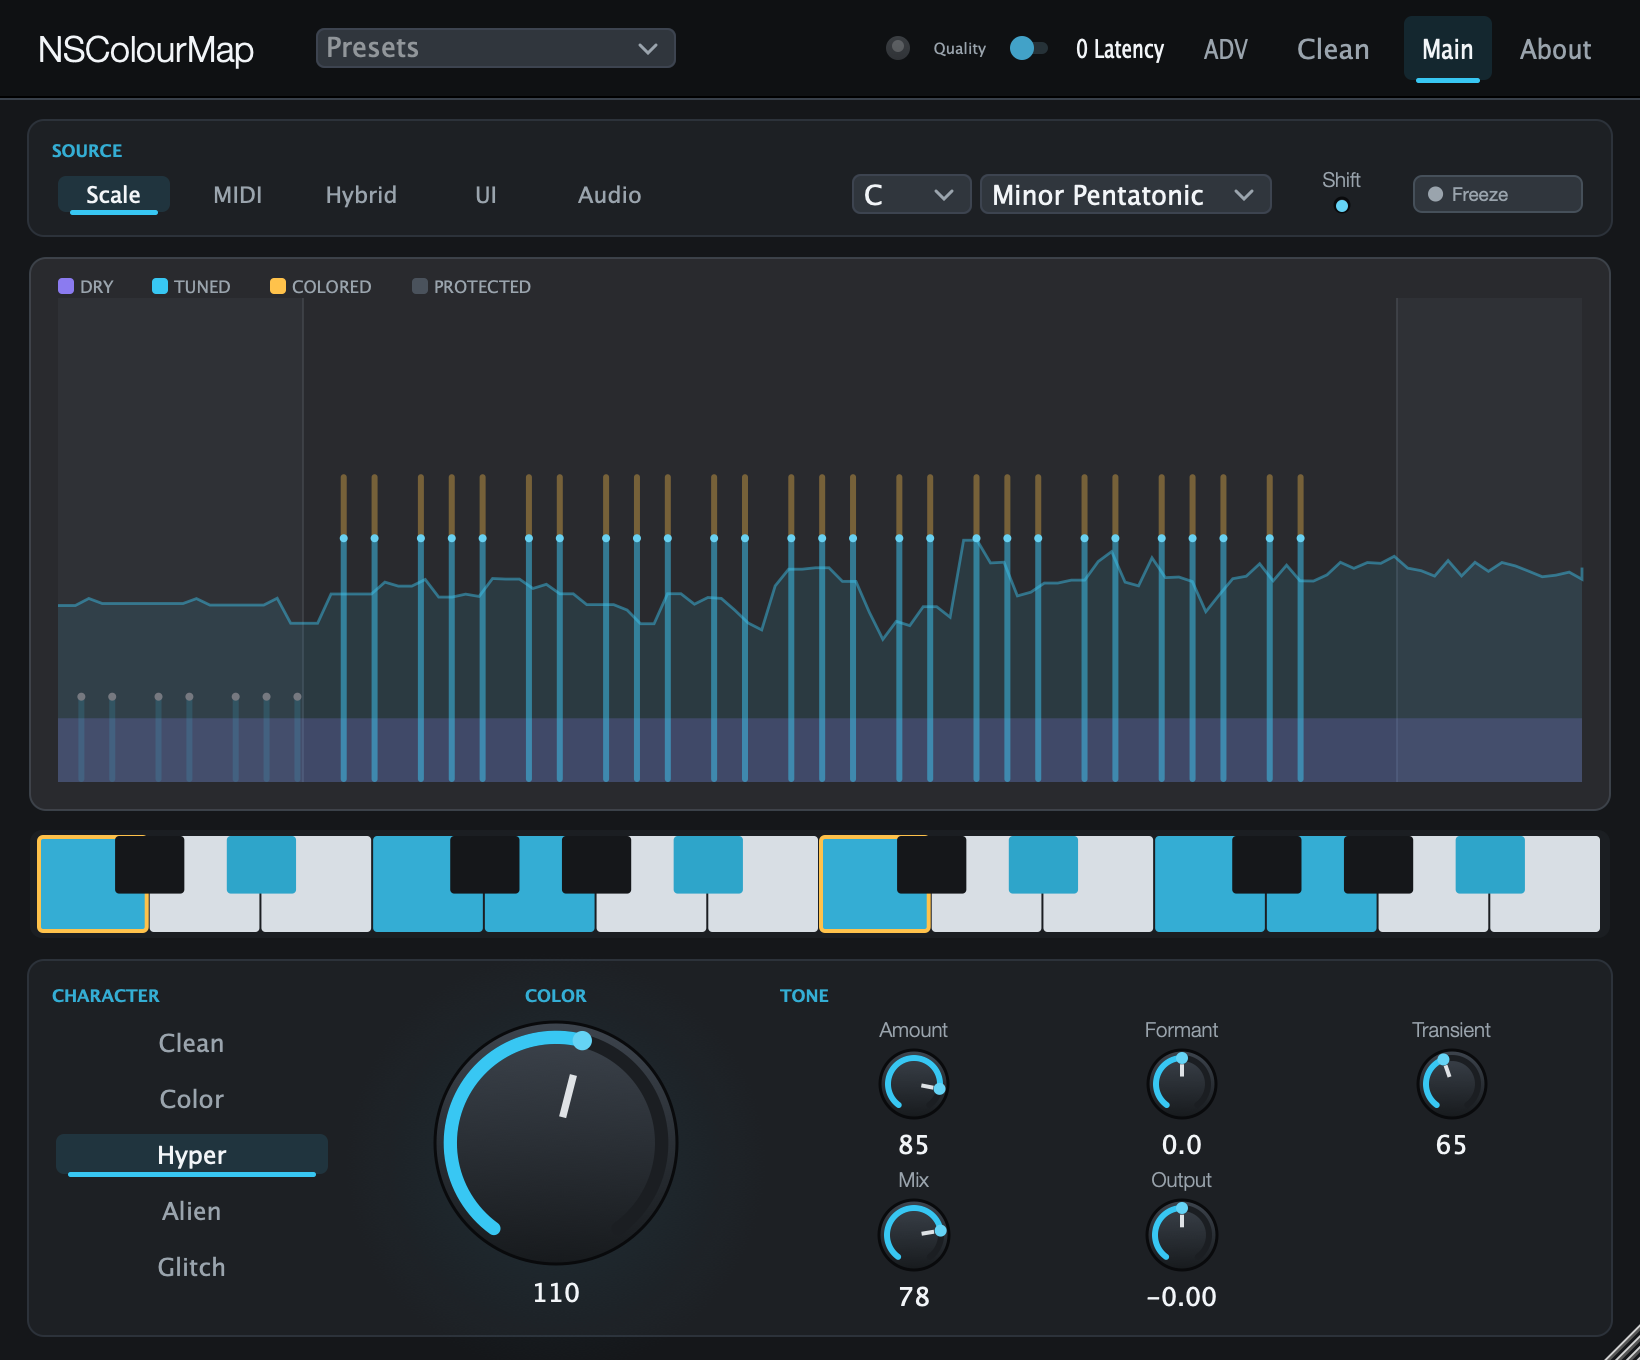
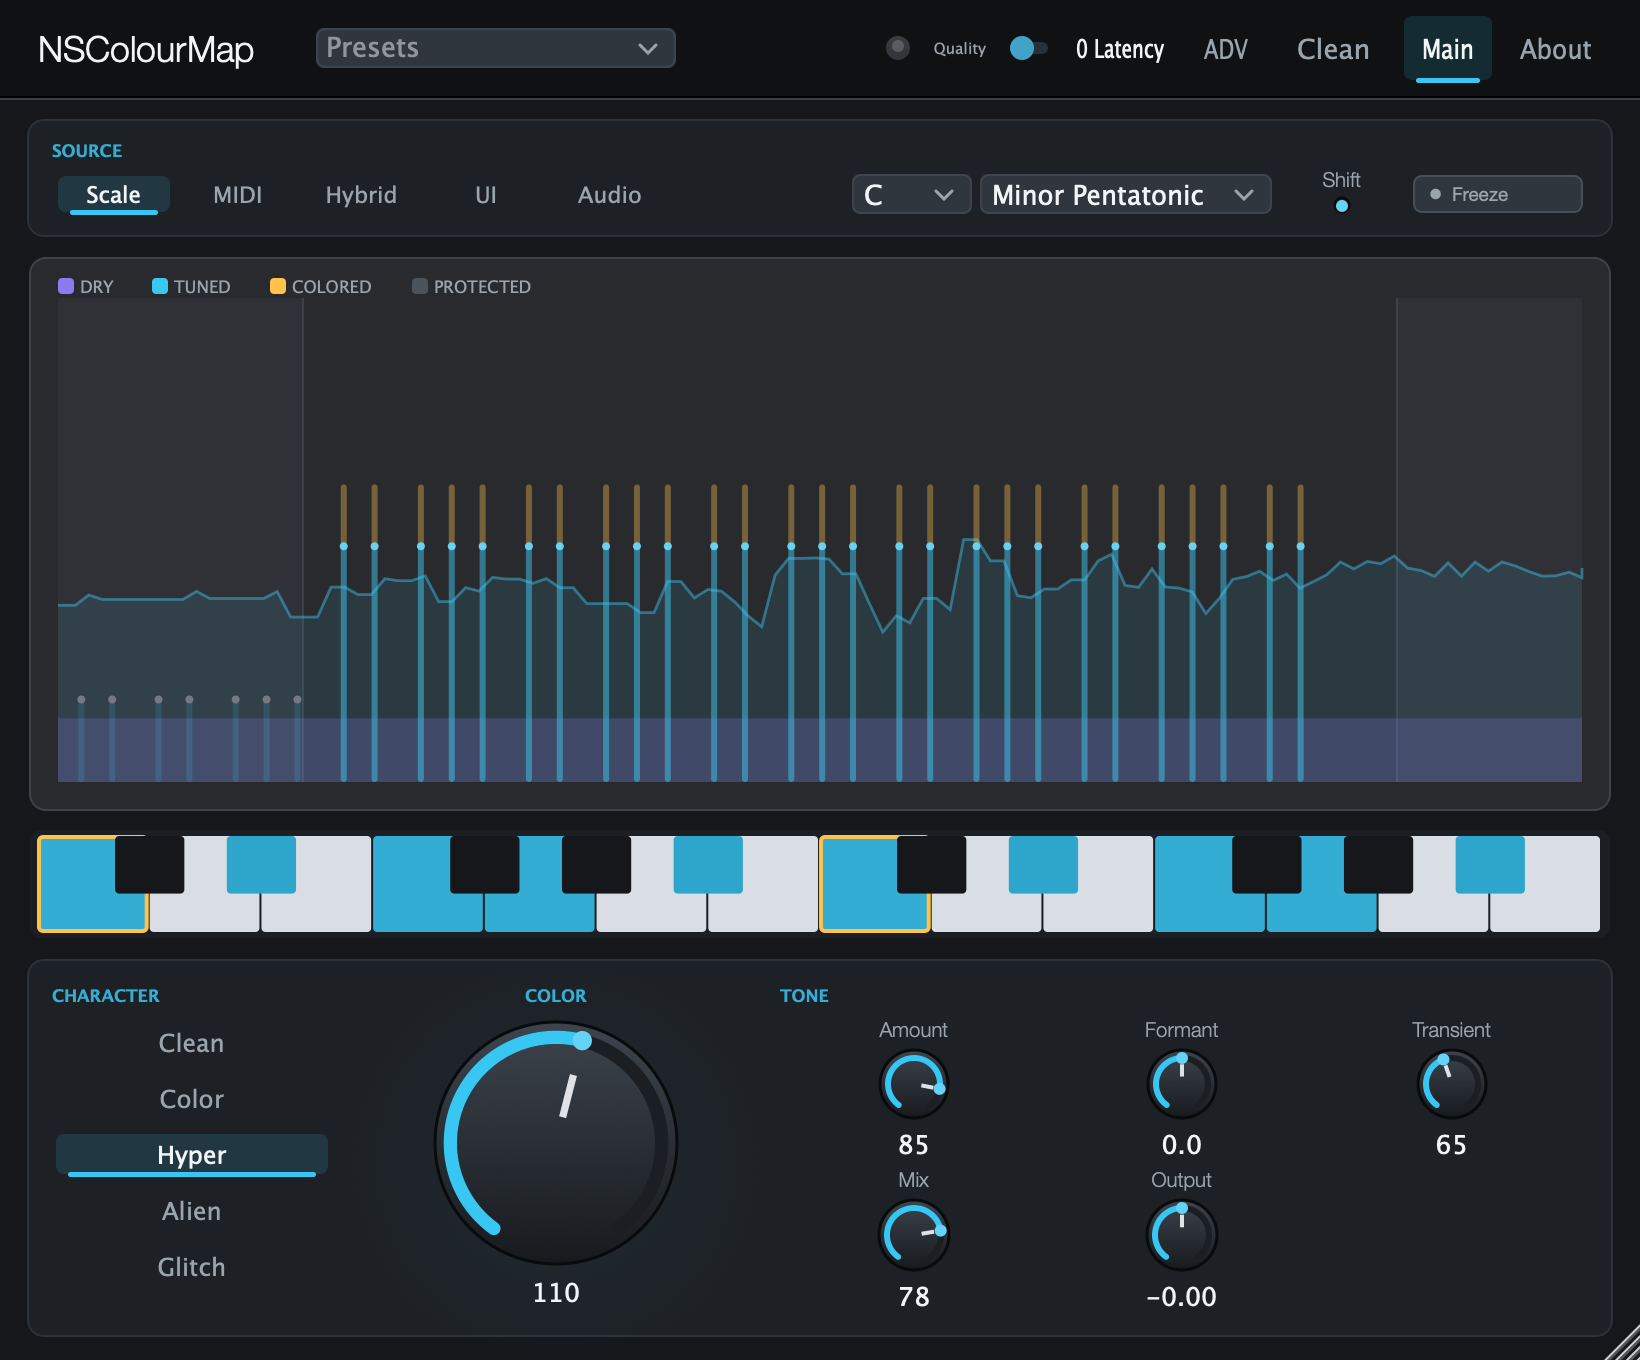
feat: smoother highs + Air (shari-shari) control; tame harsh shine (v0.8.3)
- Less harsh brilliance: air shelf moved up to ~6.5 kHz, gentler gain, stronger
  de-harsher; resonator octave-air uses lower Q so it reads as air, not a peak.
- New Air knob (Advanced): envelope-driven high-passed-noise sizzle (~9 kHz) for
  smooth crispy 'shari-shari' air with no aliasing or resonant harshness.

diff --git a/Source/PluginEditor.cpp b/Source/PluginEditor.cpp
@@ -559,6 +559,7 @@ NSColourMapAudioProcessorEditor::NSColourMapAudioProcessorEditor (NSColourMapAud
     configureKnob (gammaKnob, gammaLabel, "Gamma");
     configureKnob (morphKnob, morphLabel, "Morph");
     configureKnob (gateKnob, gateLabel, "Gate");
+    configureKnob (airKnob, airLabel, "Air");
     configureKnob (lowCutKnob, lowCutLabel, "Low Cut");
     configureKnob (highCutKnob, highCutLabel, "High Cut");
 
@@ -573,6 +574,7 @@ NSColourMapAudioProcessorEditor::NSColourMapAudioProcessorEditor (NSColourMapAud
     gammaKnob.setTooltip      (JS::fromUTF8 ("Gamma: フォルマントの山谷を誇張し母音をゆっくり揺らす（有機的な動き）"));
     morphKnob.setTooltip      (JS::fromUTF8 ("Morph: 原音の輪郭/ダイナミクスを処理音に転写（アタック保持・テイル抑制）"));
     gateKnob.setTooltip       (JS::fromUTF8 ("Gate: 共鳴のテイルを締める"));
+    airKnob.setTooltip        (JS::fromUTF8 ("Air: なめらかな高域の粒立ち（シャリシャリ）。刺さらずに空気感・煌めきを足す"));
     lowCutKnob.setTooltip     (JS::fromUTF8 ("Low Cut: この周波数以下は無加工で保護（サブを濁らせない）"));
     highCutKnob.setTooltip    (JS::fromUTF8 ("High Cut: この周波数以上は処理しない"));
     scaleShiftKnob.setTooltip (JS::fromUTF8 ("Scale Shift: グリッド全体を半音単位で移動（オートメーション向き）"));
@@ -611,6 +613,7 @@ NSColourMapAudioProcessorEditor::NSColourMapAudioProcessorEditor (NSColourMapAud
     gammaAtt      = std::make_unique<SliderAttachment> (s, nscm::params::gamma,      gammaKnob);
     morphAtt      = std::make_unique<SliderAttachment> (s, nscm::params::morph,      morphKnob);
     gateAtt       = std::make_unique<SliderAttachment> (s, nscm::params::gate,       gateKnob);
+    airAtt        = std::make_unique<SliderAttachment> (s, nscm::params::air,        airKnob);
     lowCutAtt     = std::make_unique<SliderAttachment> (s, nscm::params::lowCut,     lowCutKnob);
     highCutAtt    = std::make_unique<SliderAttachment> (s, nscm::params::highCut,    highCutKnob);
     scaleShiftAtt = std::make_unique<SliderAttachment> (s, nscm::params::scaleShift, scaleShiftKnob);
@@ -680,9 +683,9 @@ void NSColourMapAudioProcessorEditor::updateMainVisibility()
         l->setVisible (main);
 
     const bool adv = main && showAdvanced;
-    for (auto* s : { &gammaKnob, &morphKnob, &gateKnob, &lowCutKnob, &highCutKnob })
+    for (auto* s : { &gammaKnob, &morphKnob, &gateKnob, &airKnob, &lowCutKnob, &highCutKnob })
         s->setVisible (adv);
-    for (auto* l : { &gammaLabel, &morphLabel, &gateLabel, &lowCutLabel, &highCutLabel })
+    for (auto* l : { &gammaLabel, &morphLabel, &gateLabel, &airLabel, &lowCutLabel, &highCutLabel })
         l->setVisible (adv);
     sideMuteButton.setVisible (adv);
     multirateButton.setVisible (adv);
@@ -836,7 +839,7 @@ void NSColourMapAudioProcessorEditor::paint (juce::Graphics& g)
         g.fillRoundedRectangle (badge, 5.0f);
         g.setColour (accent);
         g.setFont (sectionFont());
-        g.drawText ("v0.8.2", badge.toNearestInt(), juce::Justification::centred);
+        g.drawText ("v0.8.3", badge.toNearestInt(), juce::Justification::centred);
         area.removeFromTop (34);
 
         g.setColour (panelLight.brighter (0.1f));
@@ -910,11 +913,11 @@ void NSColourMapAudioProcessorEditor::layoutClassic (juce::Rectangle<int> area)
     if (showAdvanced)
     {
         auto adv = area.removeFromBottom (92);
-        const int n = 5;
+        const int n = 6;
         const int w = (adv.getWidth() - 150) / n;
         auto knobs = adv.removeFromLeft (w * n);
-        juce::Slider* ks[] = { &gammaKnob, &morphKnob, &gateKnob, &lowCutKnob, &highCutKnob };
-        juce::Label*  ls[] = { &gammaLabel, &morphLabel, &gateLabel, &lowCutLabel, &highCutLabel };
+        juce::Slider* ks[] = { &gammaKnob, &morphKnob, &gateKnob, &airKnob, &lowCutKnob, &highCutKnob };
+        juce::Label*  ls[] = { &gammaLabel, &morphLabel, &gateLabel, &airLabel, &lowCutLabel, &highCutLabel };
         for (int i = 0; i < n; ++i)
         {
             auto col = knobs.removeFromLeft (w).reduced (3, 0);
@@ -993,11 +996,11 @@ void NSColourMapAudioProcessorEditor::layoutClean (juce::Rectangle<int> area)
     if (showAdvanced)
     {
         auto adv = area.removeFromBottom (92);
-        const int n = 5;
+        const int n = 6;
         const int w = (adv.getWidth() - 150) / n;
         auto knobs = adv.removeFromLeft (w * n);
-        juce::Slider* ks[] = { &gammaKnob, &morphKnob, &gateKnob, &lowCutKnob, &highCutKnob };
-        juce::Label*  ls[] = { &gammaLabel, &morphLabel, &gateLabel, &lowCutLabel, &highCutLabel };
+        juce::Slider* ks[] = { &gammaKnob, &morphKnob, &gateKnob, &airKnob, &lowCutKnob, &highCutKnob };
+        juce::Label*  ls[] = { &gammaLabel, &morphLabel, &gateLabel, &airLabel, &lowCutLabel, &highCutLabel };
         for (int i = 0; i < n; ++i)
         {
             auto col = knobs.removeFromLeft (w).reduced (3, 0);

diff --git a/Source/dsp/ColourProcessor.h b/Source/dsp/ColourProcessor.h
@@ -1,6 +1,7 @@
 #pragma once
 
 #include <cstddef>
+#include <cstdint>
 
 #include <array>
 #include <cmath>
@@ -19,8 +20,12 @@ public:
         constexpr float twoPi = 6.28318530717958648f;
         // One-pole lowpass used to split highs for the shelf (~1.2 kHz corner).
         lpCoeff  = std::exp (-twoPi * 1200.0f / sampleRate);
-        // Higher split for the "air" shelf (~3.8 kHz) — sparkle / brilliance.
-        airCoeff = std::exp (-twoPi * 3800.0f / sampleRate);
+        // Air shelf moved up to ~6.5 kHz so "shine" lives in the air band, not the
+        // harsh 2-5 kHz presence region.
+        airCoeff = std::exp (-twoPi * 6500.0f / sampleRate);
+        // Sizzle: high-passed noise band (~9 kHz) for a smooth "shari-shari" crispness.
+        sizCoeff = std::exp (-twoPi * 9000.0f / sampleRate);
+        sizEnvCoeff = std::exp (-1.0f / (0.010f * sampleRate));
         harshRel = std::exp (-1.0f / (0.020f * sampleRate)); // ~20 ms de-harsh release
         reset();
     }
@@ -29,6 +34,7 @@ public:
     {
         lpState.fill (0.0f); airState.fill (0.0f);
         harshEnv.fill (0.0f); harshGain.fill (1.0f);
+        sizLp.fill (0.0f); sizEnv.fill (0.0f);
     }
 
     struct Settings
@@ -38,6 +44,7 @@ public:
         float width     = 0.4f; // 0..1 stereo spread
         float highEmph  = 0.5f; // algo high emphasis base
         float air       = 0.0f; // 0..1 high "air" shelf (shine)
+        float sizzle    = 0.0f; // 0..1 smooth high-frequency crispness ("shari-shari")
     };
 
     void process (float* const* channels, int numChannels, int numSamples, const Settings& s) noexcept
@@ -49,8 +56,9 @@ public:
         const float satDrive  = 1.0f + s.drive * 1.2f;                       // light saturation
         const float satComp   = 1.0f / std::sqrt (satDrive);
         const float density   = s.colour * 0.06f;                           // subtle even-harmonic add
-        const float airGain   = s.air * 3.0f;                               // air shelf boost (shine)
-        constexpr float harshThresh = 0.22f;                                // de-harsh band ceiling
+        const float airGain   = s.air * 2.2f;                               // air shelf boost (gentler)
+        const float sizAmt    = s.sizzle;                                   // smooth high crispness
+        constexpr float harshThresh = 0.20f;                                // de-harsh band ceiling
 
         for (int ch = 0; ch < numChannels && ch < 2; ++ch)
         {
@@ -59,6 +67,8 @@ public:
             float& ap   = airState[(std::size_t) ch];
             float& he   = harshEnv[(std::size_t) ch];
             float& hg   = harshGain[(std::size_t) ch];
+            float& sl   = sizLp[(std::size_t) ch];
+            float& se   = sizEnv[(std::size_t) ch];
 
             for (int s2 = 0; s2 < numSamples; ++s2)
             {
@@ -91,6 +101,20 @@ public:
                     x = ap + airHigh * (1.0f + airGain) * hg;
                 }
 
+                // Sizzle: smooth high-frequency crispness ("shari-shari"). High-passed
+                // noise amplitude-modulated by the signal's high-band envelope — adds
+                // airy grain that follows the sound, with no aliasing or resonant harshness.
+                if (sizAmt > 0.0f)
+                {
+                    noiseState = noiseState * 1664525u + 1013904223u;
+                    const float white = (float) ((int) (noiseState >> 9) - 0x400000) * (1.0f / 0x400000);
+                    sl = white + sizCoeff * (sl - white);     // hp noise = white - lp(white)
+                    const float hpNoise = white - sl;
+                    const float aHigh = std::abs (high);      // follow the bright content
+                    se = aHigh + sizEnvCoeff * (se - aHigh);  // high-band envelope
+                    x += hpNoise * se * sizAmt * 4.0f;
+                }
+
                 data[s2] = x;
             }
         }
@@ -113,7 +137,8 @@ public:
 
 private:
     float sampleRate = 44100.0f;
-    float lpCoeff = 0.0f, airCoeff = 0.0f, harshRel = 0.0f;
-    std::array<float, 2> lpState {}, airState {}, harshEnv {}, harshGain {};
+    float lpCoeff = 0.0f, airCoeff = 0.0f, harshRel = 0.0f, sizCoeff = 0.0f, sizEnvCoeff = 0.0f;
+    std::array<float, 2> lpState {}, airState {}, harshEnv {}, harshGain {}, sizLp {}, sizEnv {};
+    std::uint32_t noiseState = 22222u;
 };
 } // namespace nscm

diff --git a/Source/PluginEditor.h b/Source/PluginEditor.h
@@ -143,8 +143,8 @@ private:
         AnimatedButton { "Alien" }, AnimatedButton { "Glitch" } };
 
     // Advanced drawer
-    juce::Slider gammaKnob, morphKnob, gateKnob, lowCutKnob, highCutKnob;
-    juce::Label  gammaLabel, morphLabel, gateLabel, lowCutLabel, highCutLabel;
+    juce::Slider gammaKnob, morphKnob, gateKnob, airKnob, lowCutKnob, highCutKnob;
+    juce::Label  gammaLabel, morphLabel, gateLabel, airLabel, lowCutLabel, highCutLabel;
     AnimatedToggle sideMuteButton { "Side Mute" }, multirateButton { "Multirate" };
 
     int   currentTab = 0;
@@ -157,7 +157,7 @@ private:
                          rTitleSource, rTitleChar, rTitleColor, rTitleTone;
 
     std::unique_ptr<SliderAttachment>   colorAtt, amountAtt, formantAtt, transientAtt, mixAtt, outputAtt,
-                                        scaleShiftAtt, gammaAtt, morphAtt, gateAtt, lowCutAtt, highCutAtt, qualityAtt;
+                                        scaleShiftAtt, gammaAtt, morphAtt, gateAtt, airAtt, lowCutAtt, highCutAtt, qualityAtt;
     std::unique_ptr<ComboBoxAttachment> keyAtt, scaleAtt;
     std::unique_ptr<ButtonAttachment>   freezeAtt, sideMuteAtt, multirateAtt;
 

diff --git a/Source/dsp/ColourMappingCore.h b/Source/dsp/ColourMappingCore.h
@@ -71,6 +71,7 @@ public:
         float amount     = 0.70f;
         float gate       = 0.0f;
         float morph      = 0.0f; // imprint the dry's fast contour onto the wet (transient preserve / tail control)
+        float sizzle     = 0.0f; // user "Air" — smooth high-frequency crispness
         CharacterProfile profile {};
     };
 
@@ -160,6 +161,7 @@ public:
         cs.colour   = s.color01 + s.colorBoost * 0.5f;
         cs.drive    = prof.drive * 0.4f;
         cs.air      = clampf (prof.air * (0.3f + 0.7f * s.color01) + s.colorBoost * 0.5f, 0.0f, 1.2f);
+        cs.sizzle   = s.sizzle;
         cs.width    = prof.width;
         cs.highEmph = prof.highEmph;
         colour.process (tuned, numChannels, numSamples, cs);

diff --git a/Source/dsp/ResonatorBank.h b/Source/dsp/ResonatorBank.h
@@ -130,10 +130,11 @@ public:
 
             if (t.air > 0.0f)
             {
-                // Octave-up resonance, higher Q + a few cents of detune -> shimmer.
+                // Octave-up resonance with a few cents of detune -> shimmer. Lower Q than
+                // the fundamental so it reads as smooth air rather than a harsh peak.
                 const float hi = v.currentHz * 2.0f;
-                v.leftHi.setCoeffs  (hi * 0.9994f, t.q * 1.5f, sampleRate);
-                v.rightHi.setCoeffs (hi * 1.0006f, t.q * 1.5f, sampleRate);
+                v.leftHi.setCoeffs  (hi * 0.9994f, t.q * 0.9f, sampleRate);
+                v.rightHi.setCoeffs (hi * 1.0006f, t.q * 0.9f, sampleRate);
             }
         }
 

diff --git a/Source/Parameters.cpp b/Source/Parameters.cpp
@@ -48,6 +48,10 @@ juce::AudioProcessorValueTreeState::ParameterLayout createParameterLayout()
         juce::NormalisableRange<float> { 0.0f, 1.0f, 0.001f }, 0.0f,
         Attr().withLabel ("%").withStringFromValueFunction (percentString)));
 
+    p.push_back (std::make_unique<APF> (juce::ParameterID { air, 1 }, "Air",
+        juce::NormalisableRange<float> { 0.0f, 1.0f, 0.001f }, 0.15f,
+        Attr().withLabel ("%").withStringFromValueFunction (percentString)));
+
     p.push_back (std::make_unique<APF> (juce::ParameterID { lowCut, 1 }, "Low Cut",
         juce::NormalisableRange<float> { 40.0f, 500.0f, 1.0f, 0.5f }, 100.0f,
         Attr().withStringFromValueFunction (hzString)));

diff --git a/Source/PluginProcessor.cpp b/Source/PluginProcessor.cpp
@@ -297,6 +297,7 @@ void NSColourMapAudioProcessor::processBlock (juce::AudioBuffer<float>& buffer, 
     cset.amount     = amountSm.skip (numSamples);
     cset.gate       = gateSm.skip (numSamples);
     cset.morph      = getValue (parameters, params::morph);
+    cset.sizzle     = getValue (parameters, params::air);
     cset.profile    = profile;
 
     ColourMappingCore::Energies energies;

diff --git a/Source/Parameters.h b/Source/Parameters.h
@@ -15,6 +15,7 @@ inline constexpr auto gamma       = "gamma";
 inline constexpr auto transient   = "transient";
 inline constexpr auto morph       = "morph";
 inline constexpr auto gate        = "gate";
+inline constexpr auto air         = "air";
 inline constexpr auto lowCut      = "lowCut";
 inline constexpr auto highCut     = "highCut";
 inline constexpr auto sideMute    = "sideMute";
